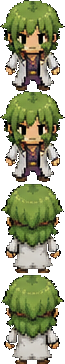
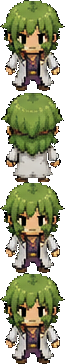
Fix back-facing frames for ranger/gardener/medic
Their source poses are [front, back] (no side). The original slice mislabeled
the back pose into the side slot and left the back blank. Rebuilt so up = the
real back view (hood/antlers/hair from behind); sides fall back to front since
there's no side art. Bump ART_V 18.

(rocket_m/rocket_f, meowth and arbiter genuinely only have a single front pose
in their source art, so they can't get side/back without new sheets.)

https://claude.ai/code/session_01F9cFHYjHomS4jXu2F4ajBs

diff --git a/index.html b/index.html
@@ -5,7 +5,7 @@
   <meta name="viewport" content="width=device-width, initial-scale=1.0, maximum-scale=1.0, user-scalable=no">
   <title>Lukeymon</title>
   <link href="https://fonts.googleapis.com/css2?family=Press+Start+2P&display=swap" rel="stylesheet">
-  <link rel="stylesheet" href="style.css?v=3.13.1">
+  <link rel="stylesheet" href="style.css?v=3.13.2">
 </head>
 <body>
 
@@ -29,7 +29,7 @@
           <p class="title-tagline">Catch ʼem with kindness!</p>
           <div class="title-scene">
             <span class="title-ground"></span>
-            <img class="title-hero" src="art/player/side.png?v=3.13.1" alt="">
+            <img class="title-hero" src="art/player/side.png?v=3.13.2" alt="">
             <img class="title-pika" src="sprites/025.png" alt="">
             <span class="title-spark sp1">⚡</span>
             <span class="title-spark sp2">⚡</span>
@@ -422,12 +422,12 @@
   </div><!-- /device -->
   <div id="version-bar">
     <button id="hard-refresh" title="Hard refresh — force reload the latest version">⟳</button>
-    <span id="version">v3.13.1</span>
+    <span id="version">v3.13.2</span>
   </div>
 
-  <script src="world.js?v=3.13.1"></script>
-  <script src="data.js?v=3.13.1"></script>
-  <script src="game.js?v=3.13.1"></script>
-  <script src="net.js?v=3.13.1"></script>
+  <script src="world.js?v=3.13.2"></script>
+  <script src="data.js?v=3.13.2"></script>
+  <script src="game.js?v=3.13.2"></script>
+  <script src="net.js?v=3.13.2"></script>
 </body>
 </html>

diff --git a/game.js b/game.js
@@ -864,7 +864,7 @@ function buildTileCache() {
 }
 
 // ── Sliced biome art (per-zone tiles, trees, shop building) ──────────
-const ART_V = '17';   // bump to bust the image cache when art files change
+const ART_V = '18';   // bump to bust the image cache when art files change
 const TILE_ART = {
   0: { 0: 3, 1: 3, 3: 3 }, 1: { 1: 3, 3: 3, 4: 3 }, 2: { 1: 3, 5: 3 },
   3: { 0: 3, 1: 3, 3: 3 }, 4: { 0: 3, 1: 3, 7: 3 }, 5: { 0: 3, 1: 3, 11: 1 },
